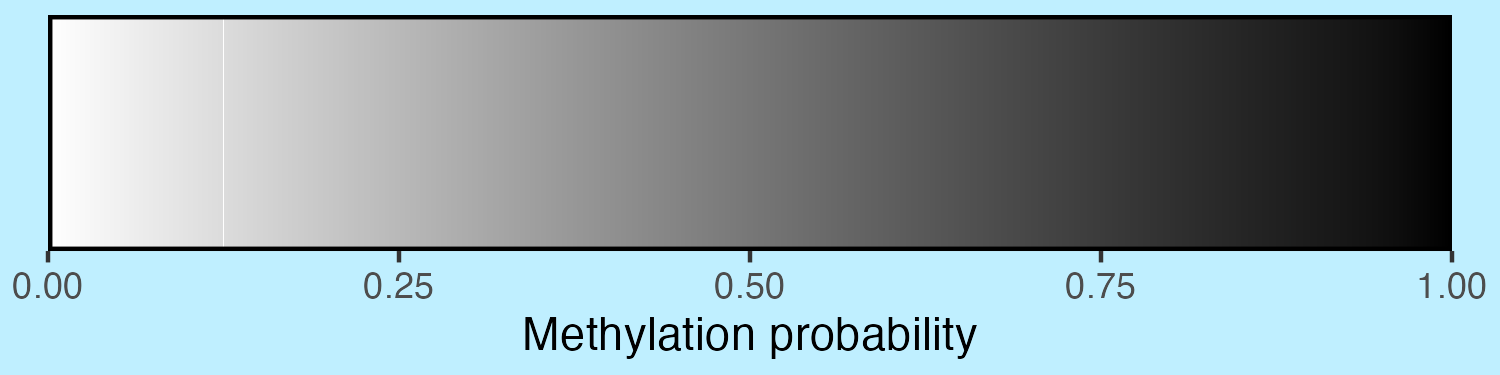
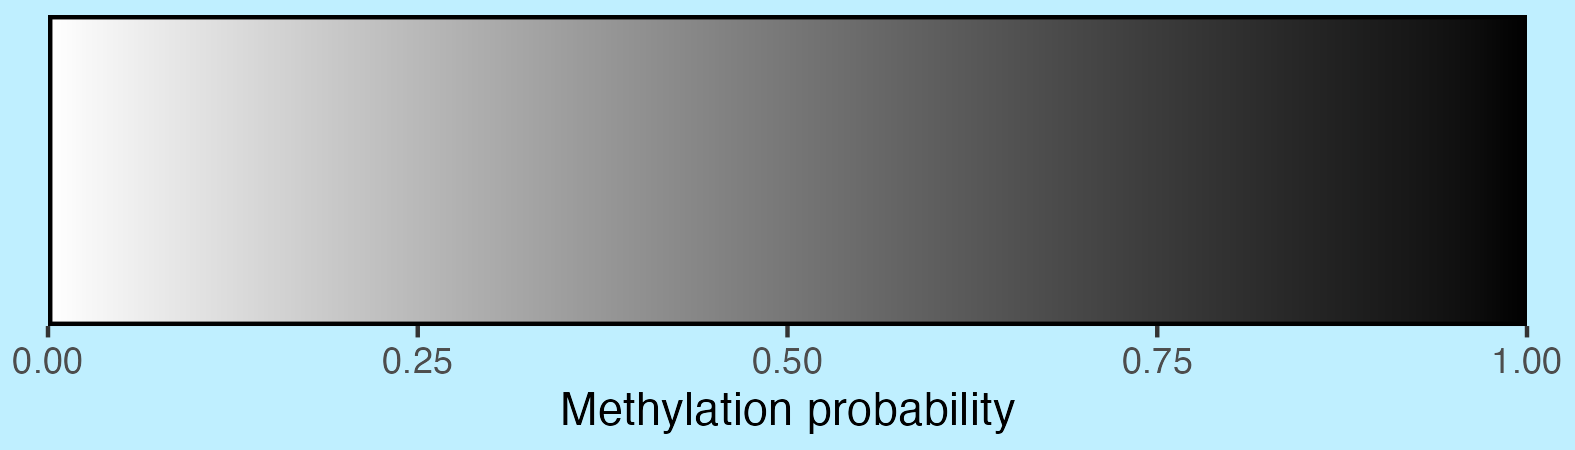
Re-re-re-rendered. Hopefully this makes it all proper

Changed region(s): [[0.0, 0.0293, 1.0, 0.968]]

diff --git a/README.md b/README.md
@@ -270,7 +270,7 @@ scalebar <- visualise_methylation_colour_scale(
 )
 
 ## Write png from object (the object is just a standard ggplot)
-ggsave(paste0(output_location, "summary_methylation_scalebar.png"), scalebar, dpi = 300, width = 5, height = 1.25, device = ragg::agg_png)
+ggsave(paste0(output_location, "summary_methylation_scalebar.png"), scalebar, dpi = 300, width = 5.25, height = 1.5, device = ragg::agg_png)
 
 ## View image
 knitr::include_graphics(paste0(github_location, "summary_methylation_scalebar.png"))
@@ -2188,7 +2188,7 @@ exported manually via `ggsave()`.
 scalebar <- visualise_methylation_colour_scale(x_axis_title = "Methylation probability")
 
 ## Write png from object
-ggsave(paste0(output_location, "modification_01_scalebar.png"), scalebar, dpi = 300, width = 5, height = 1.25, device = ragg::agg_png)
+ggsave(paste0(output_location, "modification_01_scalebar.png"), scalebar, dpi = 300, width = 5.25, height = 1.5, device = ragg::agg_png)
 
 ## View image
 knitr::include_graphics(paste0(github_location, "modification_01_scalebar.png"))
@@ -2404,7 +2404,7 @@ scalebar <- visualise_methylation_colour_scale(x_axis_title = "Methylation proba
           axis.text  = element_text(colour = "white"))
 
 ## Write png from object
-ggsave(paste0(output_location, "modification_03_scalebar.png"), scalebar, dpi = 300, width = 5, height = 1.25, device = ragg::agg_png)
+ggsave(paste0(output_location, "modification_03_scalebar.png"), scalebar, dpi = 300, width = 5.25, height = 1.5, device = ragg::agg_png)
 
 ## View image
 knitr::include_graphics(paste0(github_location, "modification_03_scalebar.png"))
@@ -2463,7 +2463,7 @@ scalebar <- visualise_methylation_colour_scale(x_axis_title = "Methylation proba
                                                background_colour = "lightblue1")
 
 ## Write png from object
-ggsave(paste0(output_location, "modification_04_scalebar.png"), scalebar, dpi = 300, width = 5, height = 1.25, device = ragg::agg_png)
+ggsave(paste0(output_location, "modification_04_scalebar.png"), scalebar, dpi = 300, width = 5.25, height = 1.5, device = ragg::agg_png)
 
 ## View image
 knitr::include_graphics(paste0(github_location, "modification_04_scalebar.png"))
@@ -2548,7 +2548,7 @@ scalebar <- visualise_methylation_colour_scale(x_axis_title = "Methylation proba
                                                background_colour = "lightblue1")
 
 ## Write png from object
-ggsave(paste0(output_location, "modification_05_scalebar.png"), scalebar, dpi = 300, width = 5, height = 1.25, device = ragg::agg_png)
+ggsave(paste0(output_location, "modification_05_scalebar.png"), scalebar, dpi = 300, width = 5.25, height = 1.5, device = ragg::agg_png)
 
 ## View image
 knitr::include_graphics(paste0(github_location, "modification_05_scalebar.png"))
@@ -2608,7 +2608,7 @@ scalebar <- visualise_methylation_colour_scale(x_axis_title = "Methylation proba
                                                high_clamp = 0.7*255)
 
 ## Write png from object
-ggsave(paste0(output_location, "modification_06_scalebar.png"), scalebar, dpi = 300, width = 5, height = 1.25, device = ragg::agg_png)
+ggsave(paste0(output_location, "modification_06_scalebar.png"), scalebar, dpi = 300, width = 5.25, height = 1.5, device = ragg::agg_png)
 
 ## View image
 knitr::include_graphics(paste0(github_location, "modification_06_scalebar.png"))
@@ -2660,7 +2660,7 @@ scalebar <- visualise_methylation_colour_scale(x_axis_title = "Hydroxymethylatio
                                                high_clamp = 0.5*255)
 
 ## Write png from object
-ggsave(paste0(output_location, "modification_07_scalebar.png"), scalebar, dpi = 300, width = 5, height = 1.25, device = ragg::agg_png)
+ggsave(paste0(output_location, "modification_07_scalebar.png"), scalebar, dpi = 300, width = 5.25, height = 1.5, device = ragg::agg_png)
 
 ## View image
 knitr::include_graphics(paste0(github_location, "modification_07_scalebar.png"))
@@ -2726,7 +2726,7 @@ Using all defaults but with lower precision gives the following:
 scalebar <- visualise_methylation_colour_scale(precision = 10)
 
 ## Write png from object
-ggsave(paste0(output_location, "modification_scalebar_alone_01.png"), scalebar, dpi = 300, width = 5, height = 1.25, device = ragg::agg_png)
+ggsave(paste0(output_location, "modification_scalebar_alone_01.png"), scalebar, dpi = 300, width = 5.25, height = 1.5, device = ragg::agg_png)
 
 ## View image
 knitr::include_graphics(paste0(github_location, "modification_scalebar_alone_01.png"))
@@ -2742,7 +2742,7 @@ scalebar <- visualise_methylation_colour_scale(precision = 50,
                                                do_x_ticks = FALSE)
 
 ## Write png from object
-ggsave(paste0(output_location, "modification_scalebar_alone_02.png"), scalebar, dpi = 300, width = 5, height = 1.25, device = ragg::agg_png)
+ggsave(paste0(output_location, "modification_scalebar_alone_02.png"), scalebar, dpi = 300, width = 5.25, height = 1.5, device = ragg::agg_png)
 
 ## View image
 knitr::include_graphics(paste0(github_location, "modification_scalebar_alone_02.png"))
@@ -2771,7 +2771,7 @@ scalebar <- visualise_methylation_colour_scale(high_colour = "green",
     scale_x_continuous(breaks = seq(0, 1, 0.1))
 
 ## Write png from object
-ggsave(paste0(output_location, "modification_scalebar_alone_03.png"), scalebar, dpi = 300, width = 5, height = 2, device = ragg::agg_png)
+ggsave(paste0(output_location, "modification_scalebar_alone_03.png"), scalebar, dpi = 300, width = 5.25, height = 2, device = ragg::agg_png)
 
 ## View image
 knitr::include_graphics(paste0(github_location, "modification_scalebar_alone_03.png"))
@@ -2792,7 +2792,7 @@ scalebar <- visualise_methylation_colour_scale(low_clamp = 0.1*255,
                                                outline_linewidth = 0)
 
 ## Write png from object
-ggsave(paste0(output_location, "modification_scalebar_alone_04.png"), scalebar, dpi = 300, width = 5, height = 2, device = ragg::agg_png)
+ggsave(paste0(output_location, "modification_scalebar_alone_04.png"), scalebar, dpi = 300, width = 5.25, height = 2, device = ragg::agg_png)
 
 ## View image
 knitr::include_graphics(paste0(github_location, "modification_scalebar_alone_04.png"))
